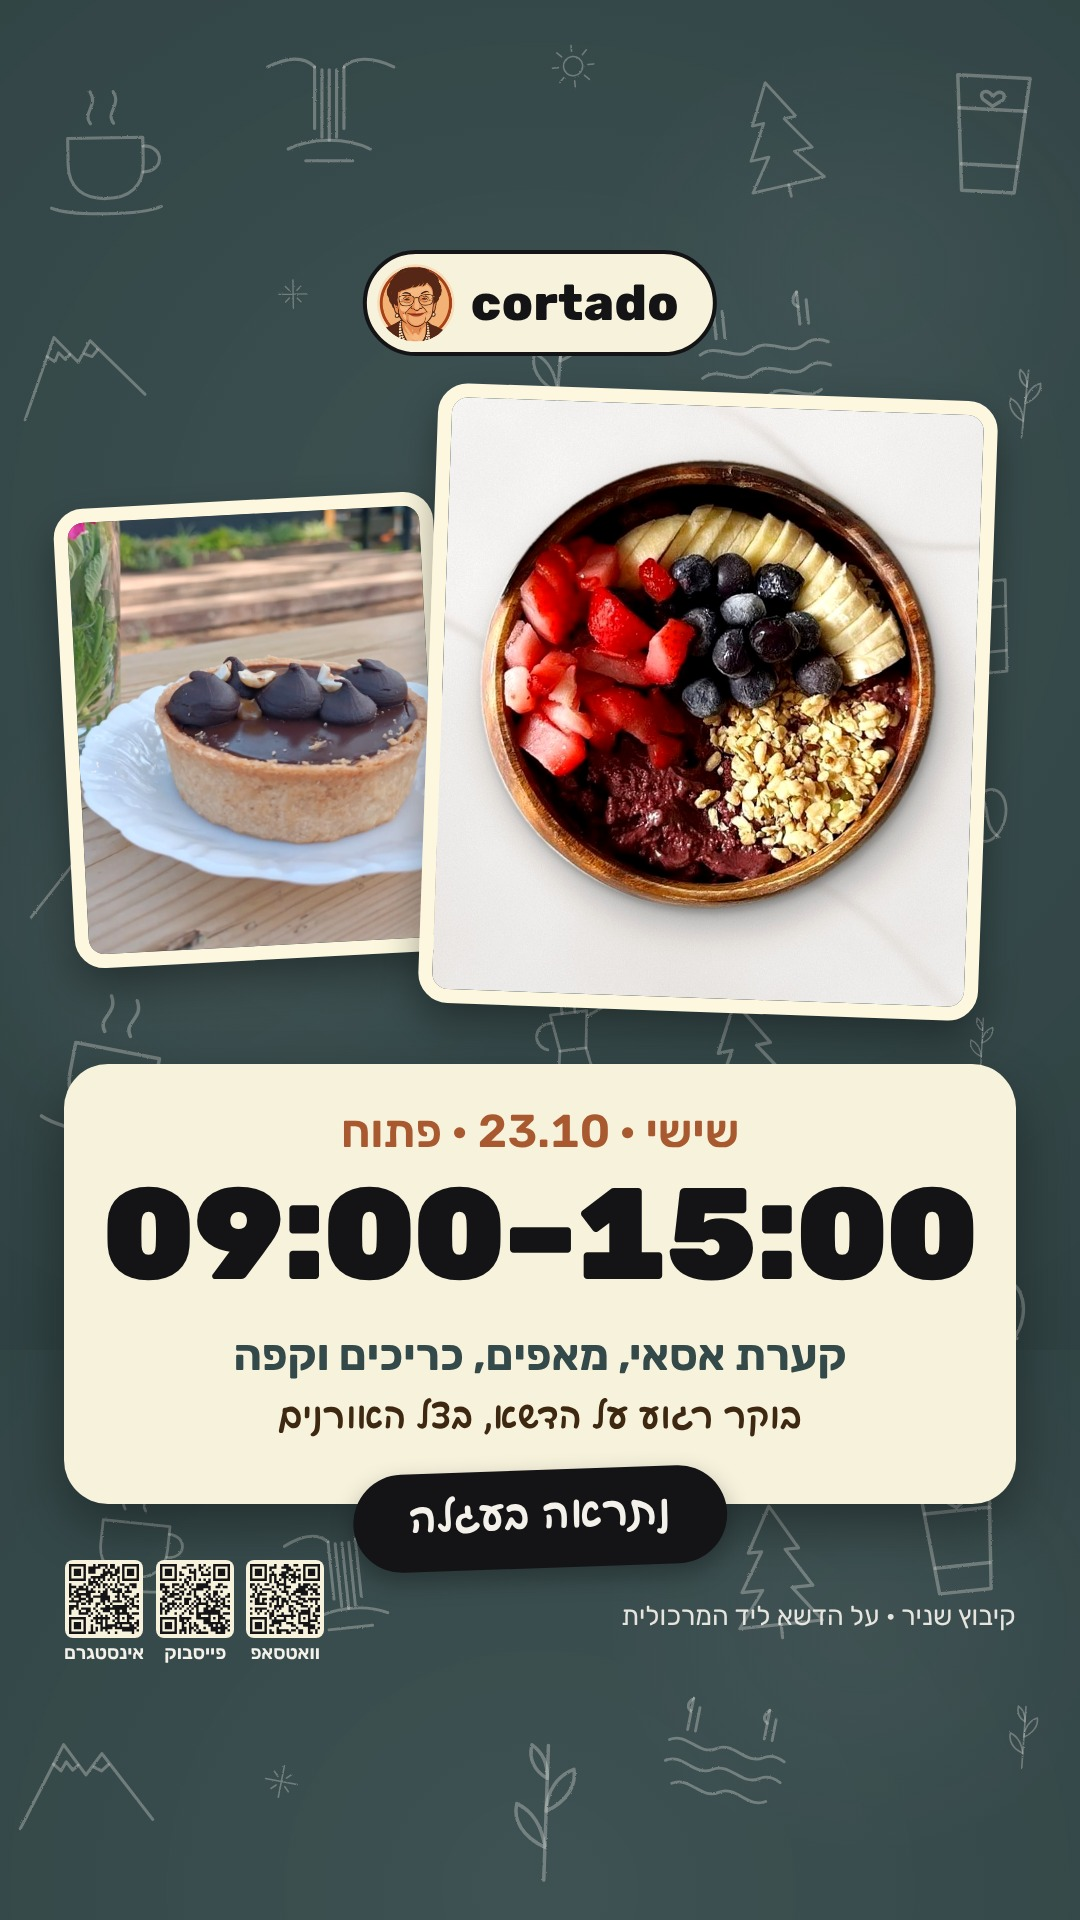
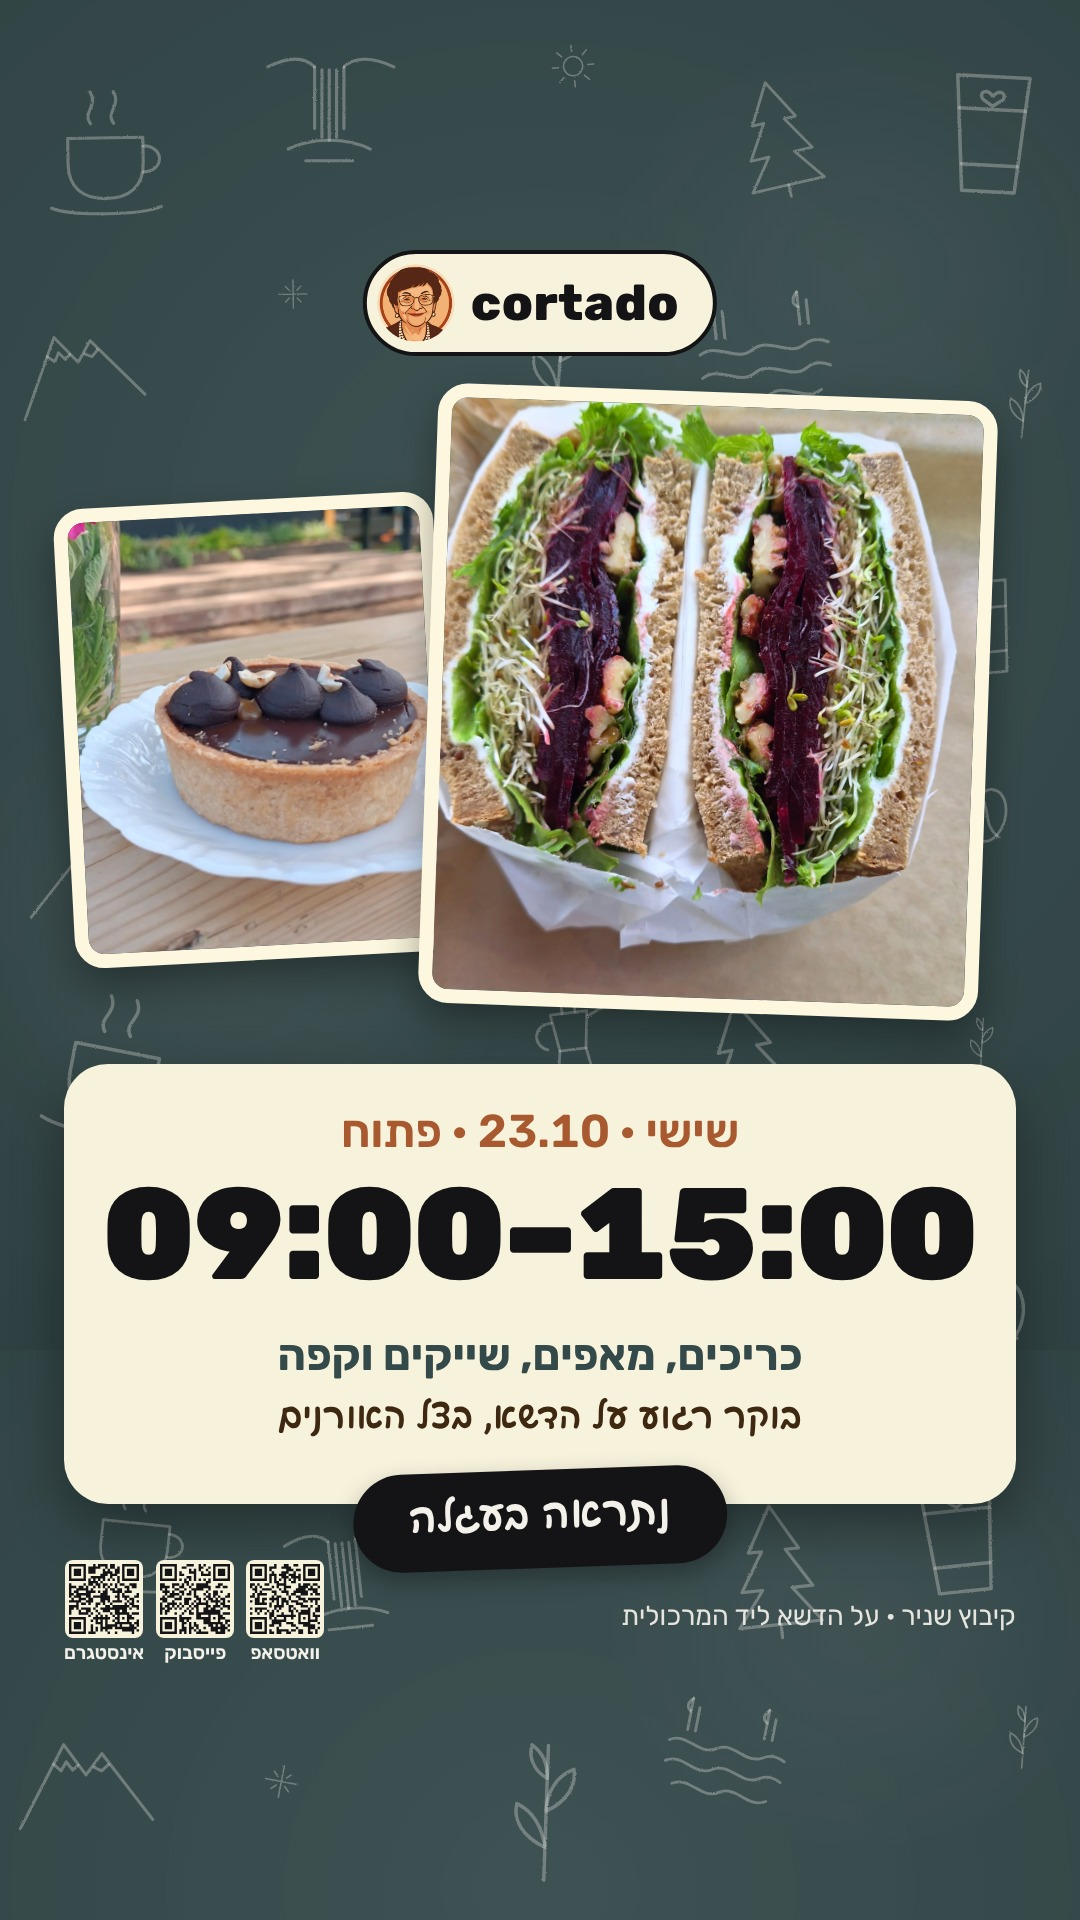
שישי 23.10: כריך במקום אסאי, ושישי בלי אסאי מעכשיו. שותפי יום הבוחר: סטורי בלבד

Changed region(s): [[0.3972, 0.1875, 0.9167, 0.5312], [0.2139, 0.6875, 0.7944, 0.7188]]

diff --git a/toolkit/scripts/next_day_story.py b/toolkit/scripts/next_day_story.py
@@ -3,6 +3,7 @@
 Usage: python scripts/next_day_story.py --date 2026-10-12 --hours 17:00–19:00 [09:00–12:00 ...] --out DIR
 Evening day (a range ending 17:00 or later): the pizza is the big photo, the small one
 rotates coffee → pastry → acai. Morning-only day: the rotating photo is big, the sandwich small, no pizza.
+Friday: never the acai photo; on a morning-only Friday the sandwich is the big photo.
 The rotation state lives in story-rotation.json next to this toolkit, so commit it after a run.
 """
 import argparse, datetime, json, pathlib, subprocess, sys
@@ -33,7 +34,10 @@ def take(state, cat):
 
 def story(date, ranges, state):
     """Returns the story data; advances state (a dict) in place."""
+    friday = date.weekday() == 4  # owner, 22.10.2026: on Fridays no acai photo, only a sandwich
     cat = CATS[(CATS.index(state["cat"]) + 1) % len(CATS)] if state.get("cat") in CATS else CATS[0]
+    if friday and cat == "acai":
+        cat = CATS[(CATS.index(cat) + 1) % len(CATS)]
     state["cat"] = cat
     pick = take(state, cat)
     starts = [int(r[:2]) for r in ranges]
@@ -42,7 +46,9 @@ def story(date, ranges, state):
     s = {"day": DAYS[date.weekday()], "date": f"{date.day}.{date.month}", "hours": ranges}
     if evening:
         s.update(main=take(state, "pizza"), second=pick, sticker="יש פיצה!",
-                 sub="<b>פיצה</b>, קערת אסאי, מאפים, שייקים וקפה")
+                 sub="<b>פיצה</b>, כריכים, מאפים, שייקים וקפה" if friday else "<b>פיצה</b>, קערת אסאי, מאפים, שייקים וקפה")
+    elif friday:
+        s.update(main="sandwich.jpg", second=pick, sub="כריכים, מאפים, שייקים וקפה")
     else:
         s.update(main=pick, second="sandwich.jpg", sub="קפה, כריכים, מאפים ושייקים")
     s["line"] = ("אחר הצהריים רגוע, בצל האורנים" if min(starts) >= 15 else
@@ -76,5 +82,8 @@ if __name__ == "__main__":
     seen = [story(d, ["17:00–19:00"], st) for _ in range(4)]
     assert all(x["main"] == "pizza.jpg" for x in seen), seen
     assert [x["second"] for x in seen] == ["cortado-lawn.jpg", "pastry-2.jpg", "acai.jpg", "coffee-2.jpg"], seen
+    fri = [story(datetime.date(2026, 10, 23), ["09:00–15:00"], st) for _ in range(6)]
+    assert all(x["main"] == "sandwich.jpg" and "acai" not in x["second"] and "אסאי" not in x["sub"] for x in fri), fri
+    assert "אסאי" not in story(datetime.date(2026, 10, 23), ["16:00–19:00"], st)["sub"]
     assert all((ROOT / "assets/photos" / f).exists() for v in POOLS.values() for f in v)
     main()

diff --git a/instagram/plan.md b/instagram/plan.md
@@ -10,4 +10,4 @@
 הקשר: 25.10 מעבר לשעון חורף · 27.10 בחירות, שבתון, ואירוע של קורטדו (פרטים אצל הבעלים, לא בתור) · 22–23.10 יום הזיכרון לרבין (לפני השבוע).
 הוקים שנבחנו: א' — "סבתא אאידה ביקשה קורטדו" / "הקורטדו שלנו התחיל אצל סבתא" / "לקח זמן להצליח בשבילה". ג' — "ככה נראה בוקר בעגלה" / "כוס אחרי כוס, בלי למהר" / "קורטדו בשתי ידיים".
 
-**שותפי יום הבוחר (22–26.10): רק ריל, לא פוסט תמונה** (הבעלים, 21.10.2026). ספורט עם יאיר: בלי ריל (הבעלים, 22.10.2026). יצא כפוסט תמונה ב-22.10 16:00.
+**שותפי יום הבוחר (עד 27.10): רק סטורי. לא ריל ולא פוסט בפיד** (הבעלים, 22.10.2026, 20:41; מחליף את "רק ריל" מ-21.10). ספורט עם יאיר: בלי ריל (הבעלים, 22.10.2026). יצא כפוסט תמונה ב-22.10 16:00.
